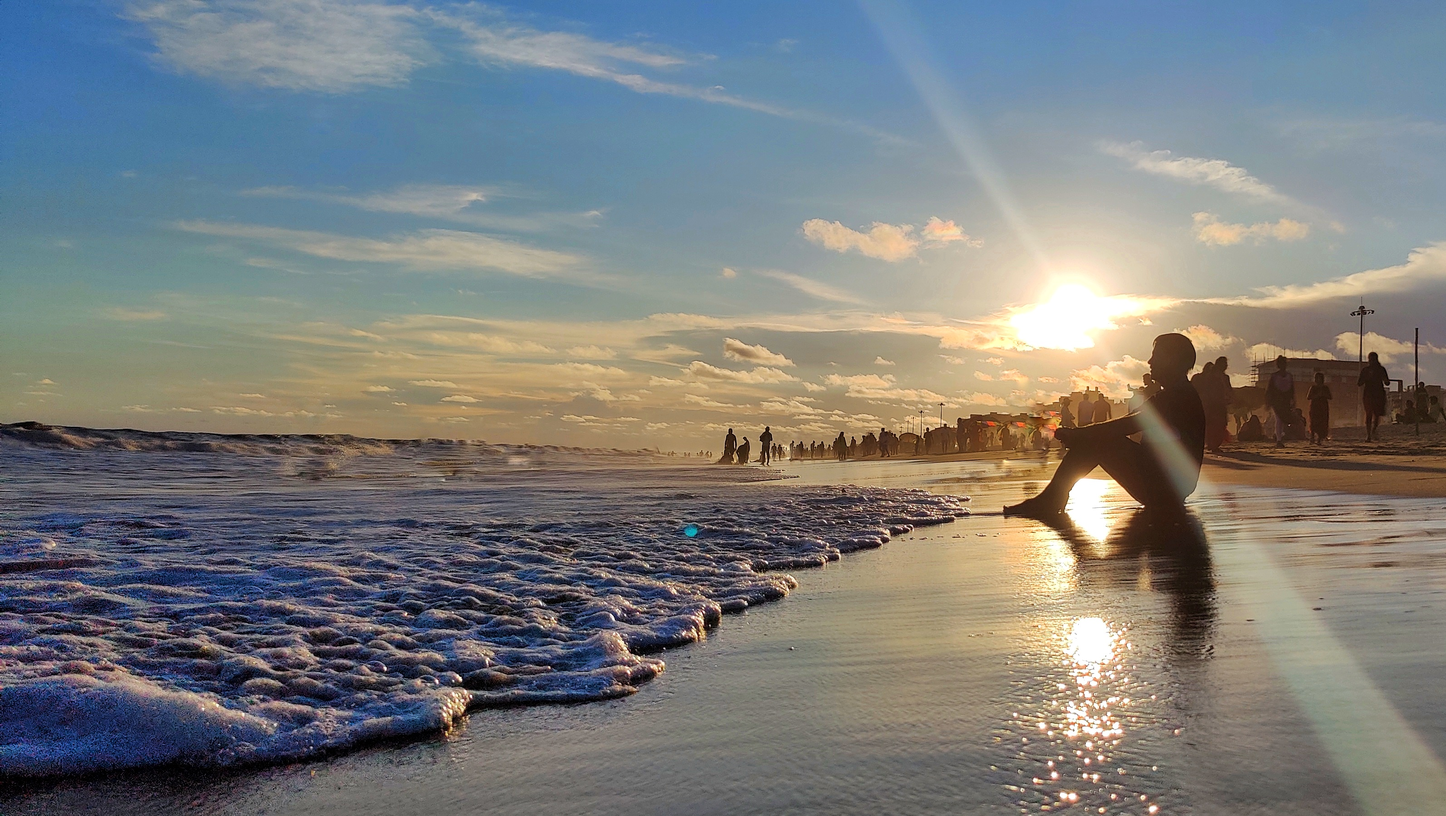
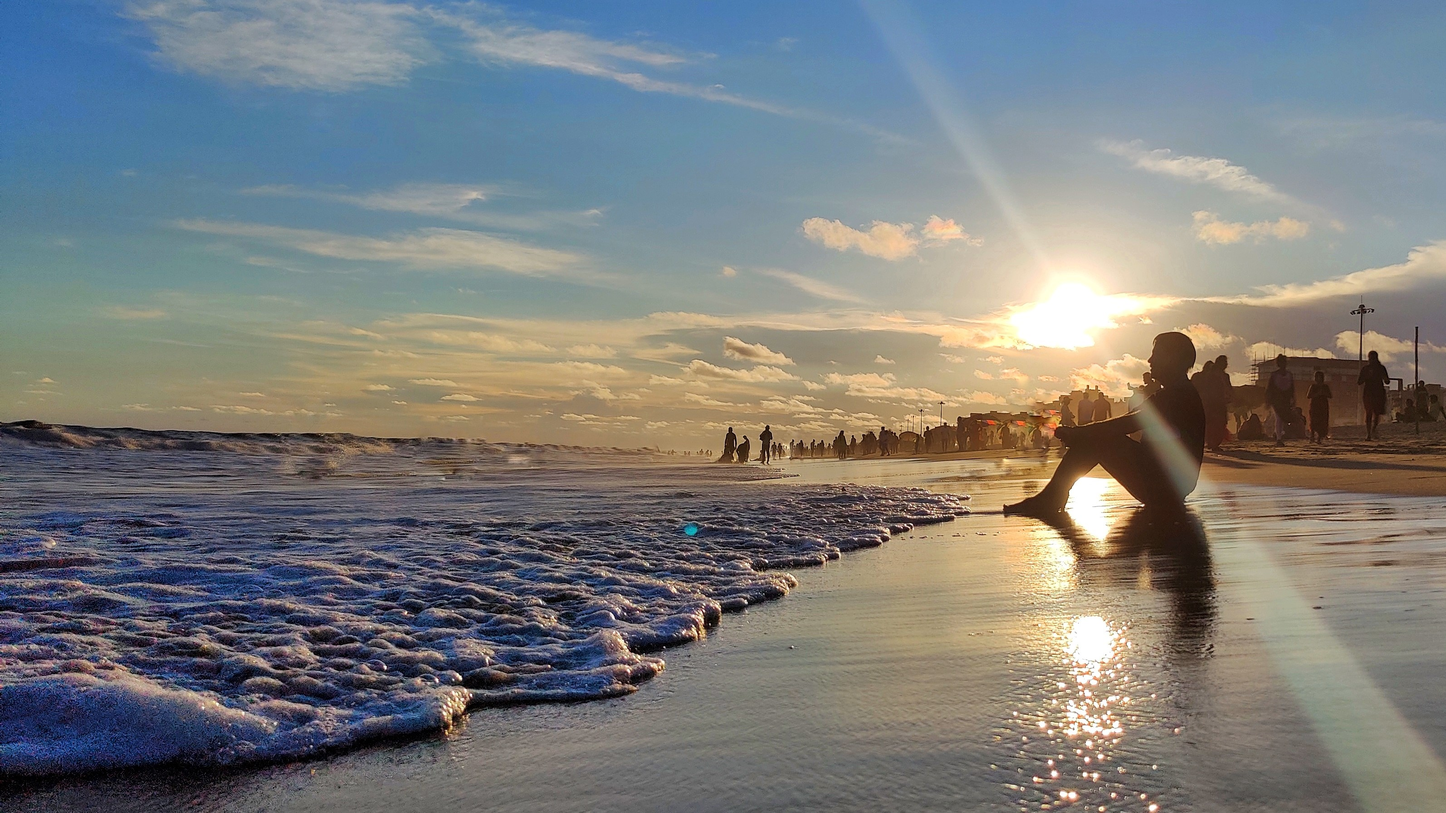
Edited images to fit better.

diff --git a/client/src/components/Photography.js b/client/src/components/Photography.js
@@ -19,33 +19,24 @@ const Photography = () => {
   ], []);
   // const Horizontalimages = useMemo(() => [
   //   { url: '/Images/image2.jpg', caption: 'Photograph 2' },
-  //   { url: '/Images/image5.jpg', caption: 'Photograph 5' },
   //   { url: '/Images/image6.jpg', caption: 'Photograph 6' },
   //   { url: '/Images/image7.jpg', caption: 'Photograph 7' },
   //   { url: '/Images/image8.jpg', caption: 'Photograph 8' },
-  //   { url: '/Images/image9.jpg', caption: 'Photograph 9' },
-  //   { url: '/Images/image10.jpg', caption: 'Photograph 10' },
   //   { url: '/Images/image11.jpg', caption: 'Photograph 11' },
-  //   { url: '/Images/image12.jpg', caption: 'Photograph 12' },
-  //   { url: '/Images/image13.jpg', caption: 'Photograph 13' },
   //   { url: '/Images/image14.jpg', caption: 'Photograph 14' },
   //   { url: '/Images/image17.jpg', caption: 'Photograph 17' },
   //   { url: '/Images/image18.jpg', caption: 'Photograph 18' },
   //   { url: '/Images/image19.jpg', caption: 'Photograph 19' },
   //   { url: '/Images/image20.jpg', caption: 'Photograph 20' },
-  //   { url: '/Images/image21.jpg', caption: 'Photograph 21' },
   //   { url: '/Images/image23.jpg', caption: 'Photograph 23' },
-  //   { url: '/Images/image25.jpg', caption: 'Photograph 25' },
-  //   { url: '/Images/image27.jpg', caption: 'Photograph 27' },
-  //   { url: '/Images/image28.jpg', caption: 'Photograph 28' },
+  //   { url: '/Images/image27_1.jpg', caption: 'Photograph 27' },
+  //   { url: '/Images/image27_2.jpg', caption: 'Photograph 27' },
   //   { url: '/Images/image29.jpg', caption: 'Photograph 29' },
   //   { url: '/Images/image30.jpg', caption: 'Photograph 30' },
-  //   { url: '/Images/image31.jpg', caption: 'Photograph 31' },
   //   { url: '/Images/image32.jpg', caption: 'Photograph 32' },
   //   { url: '/Images/image34.jpg', caption: 'Photograph 34' },
   //   { url: '/Images/image35.jpg', caption: 'Photograph 35' },
   //   { url: '/Images/image36.jpg', caption: 'Photograph 36' },
-  //   { url: '/Images/image37.jpg', caption: 'Photograph 37' },
   //   { url: '/Images/image38.jpg', caption: 'Photograph 38' },
   //   { url: '/Images/image39.jpg', caption: 'Photograph 39' },
   //   { url: '/Images/image40.jpg', caption: 'Photograph 40' },
@@ -53,21 +44,15 @@ const Photography = () => {
   //   { url: '/Images/image42.jpg', caption: 'Photograph 42' },
   //   { url: '/Images/image43.jpg', caption: 'Photograph 43' },
   //   { url: '/Images/image44.jpg', caption: 'Photograph 44' },
-  //   { url: '/Images/image45.jpg', caption: 'Photograph 45' },
   //   { url: '/Images/image46.jpg', caption: 'Photograph 46' },
   //   { url: '/Images/image47.jpg', caption: 'Photograph 47' },
   //   { url: '/Images/image48.jpg', caption: 'Photograph 48' },
   //   { url: '/Images/image50.jpeg', caption: 'Photograph 50' },
   //   { url: '/Images/image51.jpeg', caption: 'Photograph 51' },
   //   { url: '/Images/image52.jpeg', caption: 'Photograph 52' },
-  //   { url: '/Images/image54.jpeg', caption: 'Photograph 54' },
-  //   { url: '/Images/image55.jpeg', caption: 'Photograph 55' },
-  //   { url: '/Images/image56.jpeg', caption: 'Photograph 56' },
   //   { url: '/Images/image57.jpeg', caption: 'Photograph 57' },
   //   { url: '/Images/image58.jpeg', caption: 'Photograph 58' },
-  //   { url: '/Images/image59.jpeg', caption: 'Photograph 59' },
   //   { url: '/Images/image60.jpeg', caption: 'Photograph 60' },
-  //   { url: '/Images/image61.jpeg', caption: 'Photograph 61' },
   //   { url: '/Images/image62.jpeg', caption: 'Photograph 62' },
   //   { url: '/Images/image63.jpeg', caption: 'Photograph 63' }
   // ], []);

diff --git a/client/src/components/SubComponents/RenderImage.js b/client/src/components/SubComponents/RenderImage.js
@@ -17,7 +17,7 @@ const RenderImage = ({images, orientation}) => {
         <div className="image-grid">
           {images.map((image, index) => (
             <div key={index} className="image-item">
-              <img src={image.url} alt={`Photograph : ${index + 1}`} style={{ height: getImageHeight(orientation) }} />
+              <img src={image.url} alt={`Photograph : ${index + 1}`} style={{ height: getImageHeight(orientation) } } loading='lazy' />
               <p>{image.caption}</p>
             </div>
           ))}
